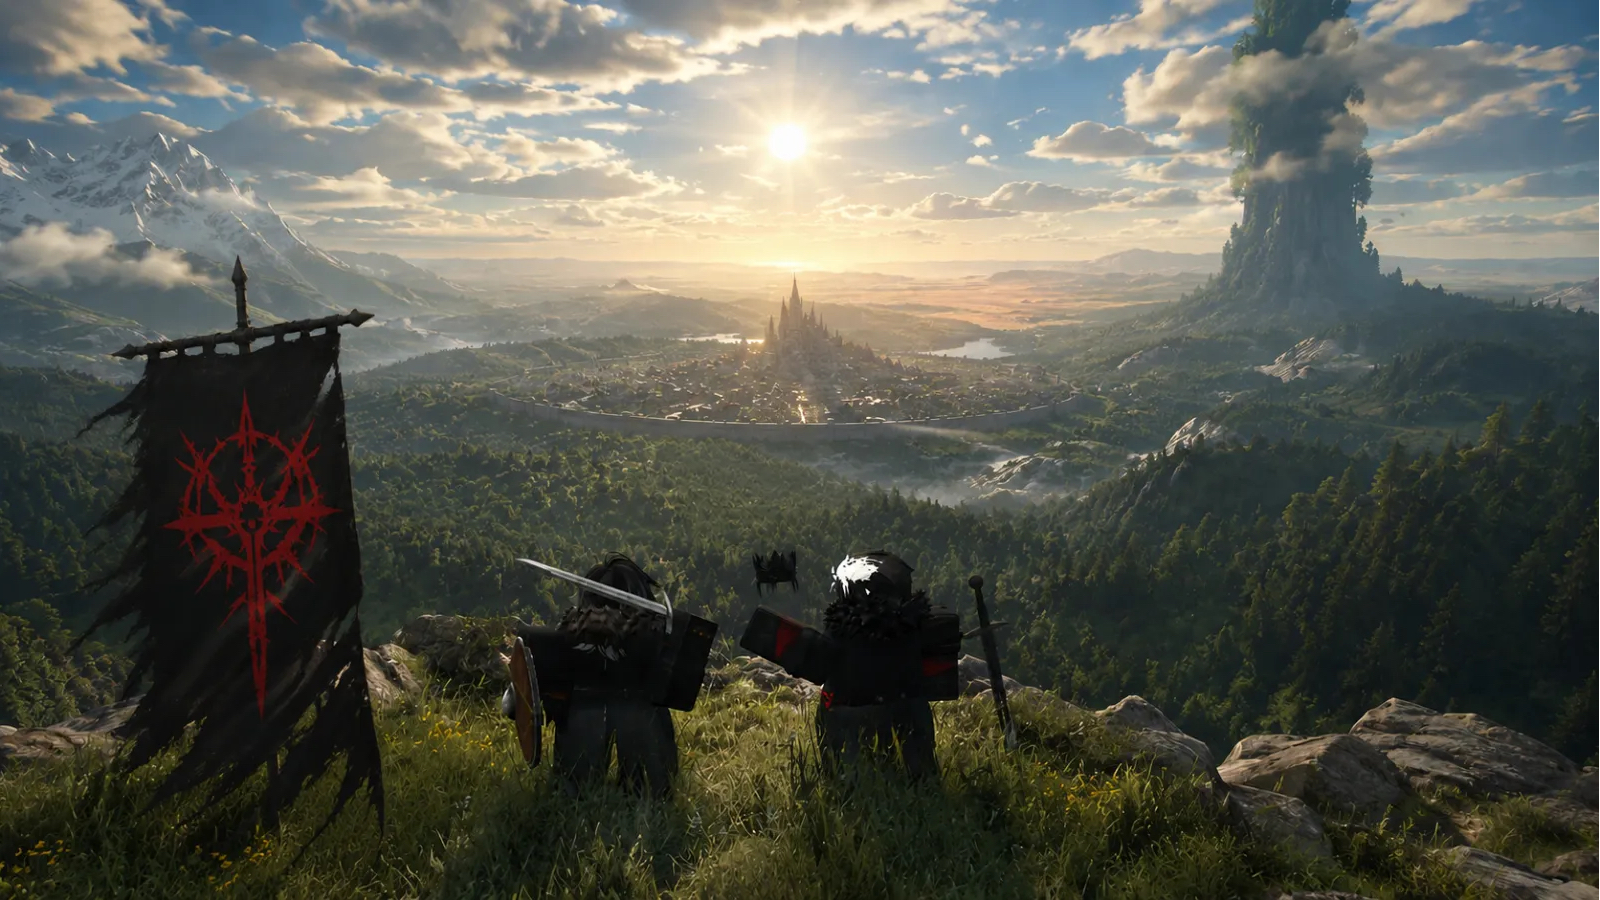
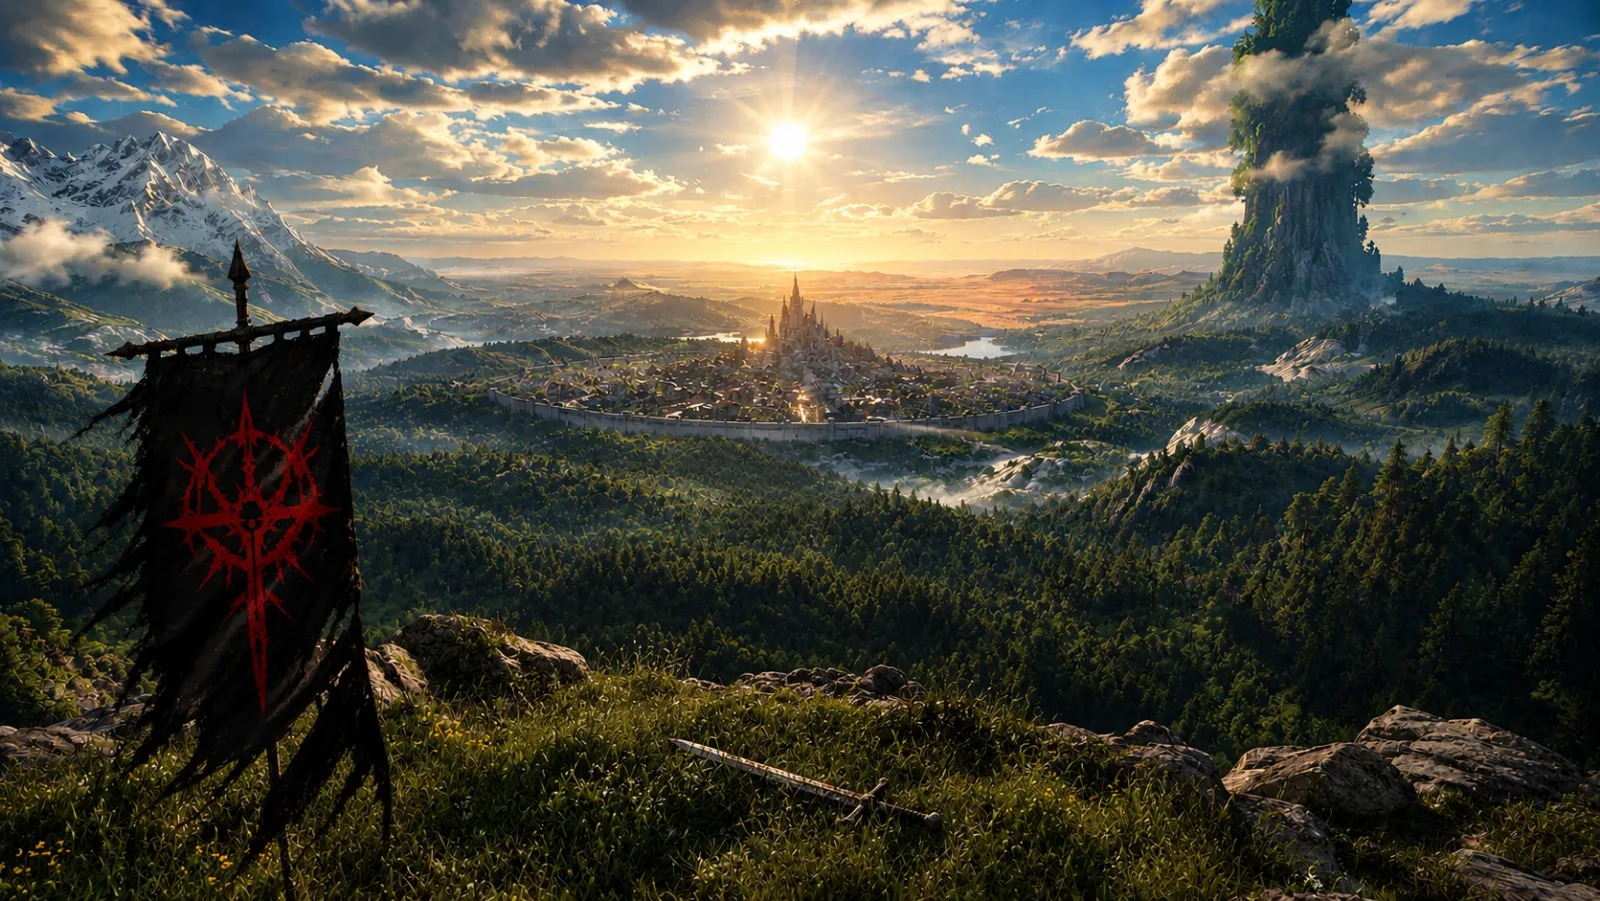
Replaced new background image homepage

diff --git a/TheFarLands/accounts/templates/home.html b/TheFarLands/accounts/templates/home.html
@@ -1687,7 +1687,7 @@
       <div class="banner-placeholder-text">
         <h1>The Far Lands Project</h1>
 
-        <img src="{% static 'accounts/Banner 2.jpg' %}" alt="Top Banner">
+        <img src="{% static 'accounts/Banner 2.jpg' %}?v=2" alt="Top Banner">
       </div>
     </div>
     <div class="fade-out"></div>
